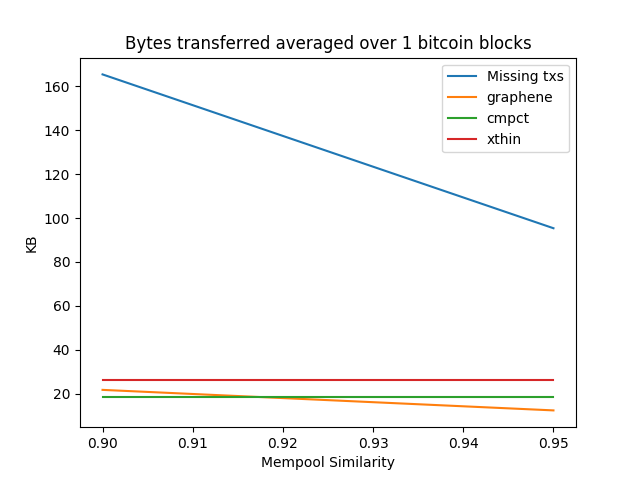
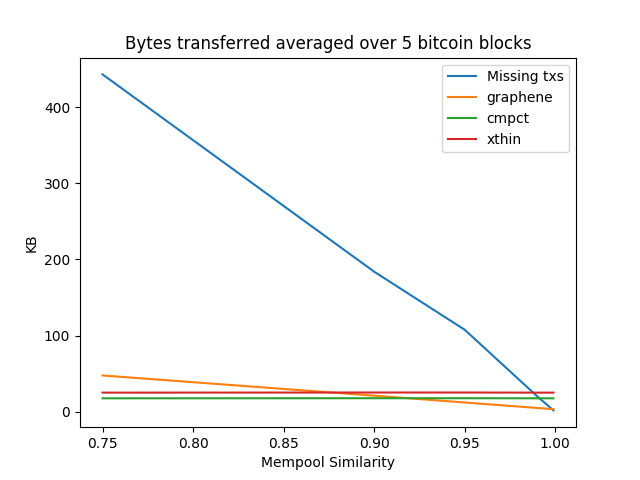
Update readme with plot details

diff --git a/README.md b/README.md
@@ -3,8 +3,17 @@
 We are trying to test block propagation using graphene with data from real Bitcoin blocks while following the actual wire protocol of Bitcoin. A new message type called MSG_GRAPHENE has been added and a new transaction packet called GraphenePacket has been added which can be serialized and deserialized. This packet includes the bloom filter and the IBLT that are needed as part of graphene.
 
 ### First Results*
+
+#### Comparision of different bandwidth saving techniques
 ![Comparision of different bandwidth saving techniques](mempool.png)
 
+![Number of missing transactions](n_missing.png)
+
+\* I'm still tuning different parameters. While the actual numbers may change as testing progresses, the trend should hold. Numbers for Compact and Xtreme Thinblocks are estimates and not pulled from actual messages.
+
+### TODO
+
+* Unrecoverable transactions.
 
 ### Running stuff
 
@@ -59,6 +68,7 @@ n_cells 236
 2017-12-14 17:38:23,890 - root - INFO - Number of bits in the bloom filter: 14924
 ```
 
+The simulation scripts can be run over one block at a time. ``driver.py`` runs the scripts for all blocks in the ``data`` directory for mempool values ``[0.999, 0.99, 0.95, 0.9, 0.75]``. It remembers if it has processed a block before so it can be safely run as many times as needed.
 
 ```bash
 ~/graphene $ python driver.py
@@ -69,6 +79,15 @@ Computing values for block 499327
 2017-12-14 17:48:24,891 - root - DEBUG - Socket bound to localhost:4242
 ```
 
+Graphs can be generated as follows:
 ```bash
-~/graphene $ python graph.py
+~/graphene $ python graph.py 
+[0.999, 0.99, 0.95, 0.9, 0.75]
+[1.6027018229166667, 20.1650390625, 107.61090959821429, 183.95354352678572, 443.32975260416669]
+[0.999, 0.99, 0.95, 0.9, 0.75]
+[3.2353515625, 4.822591145833333, 11.998465401785714, 20.963588169642858, 47.535807291666664]
+[0.999, 0.99, 0.95, 0.9, 0.75]
+[17.49609375, 17.49609375, 17.615792410714285, 17.615792410714285, 17.49609375]
+[0.999, 0.99, 0.95, 0.9, 0.75]
+[24.948893229166668, 24.948893229166668, 25.120396205357142, 25.120396205357142, 24.948893229166668]
 ```
